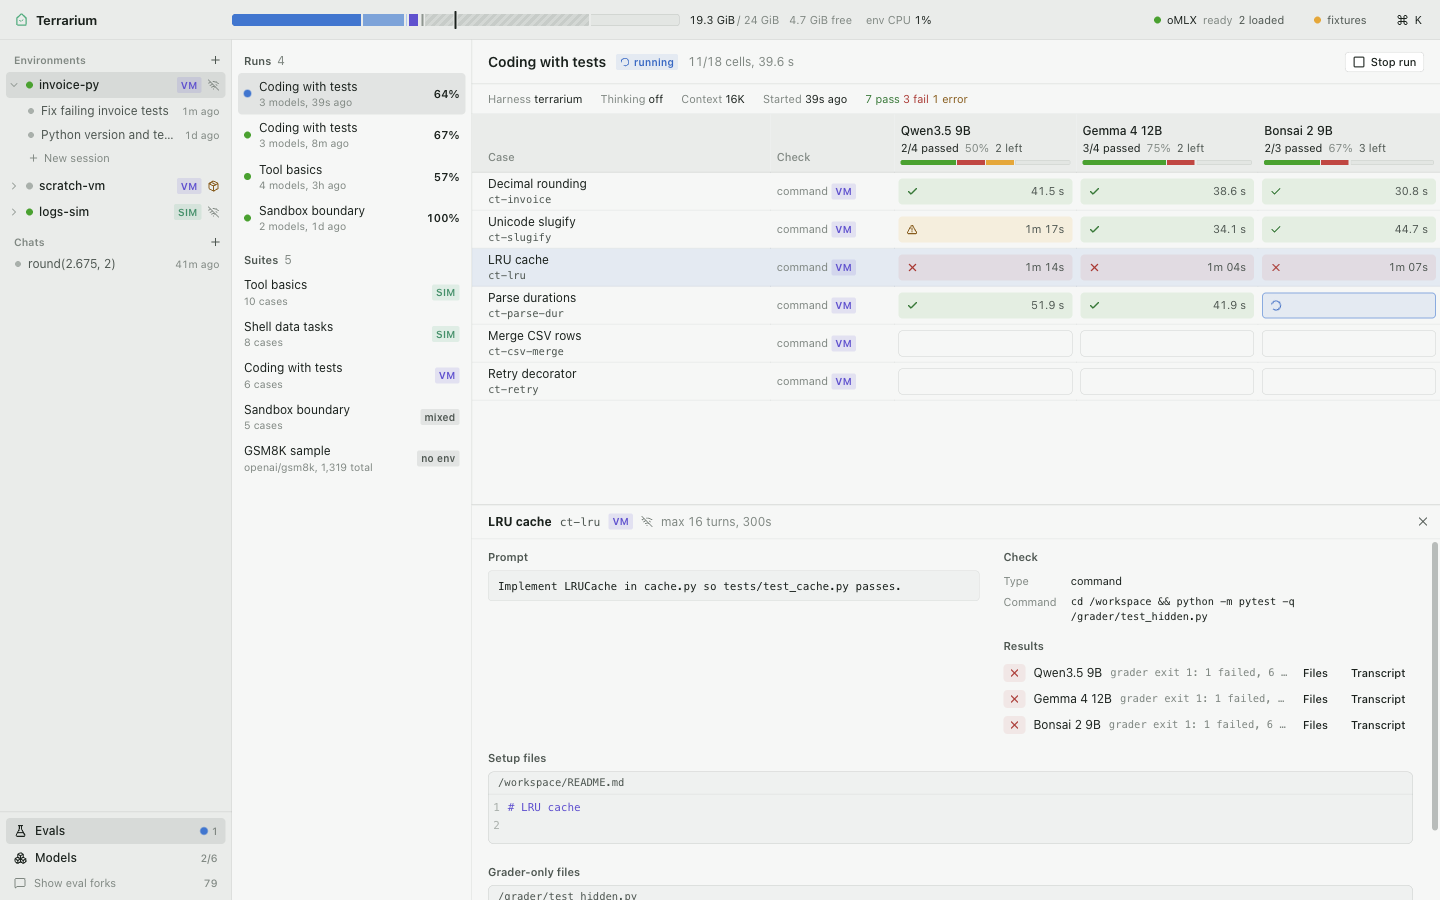
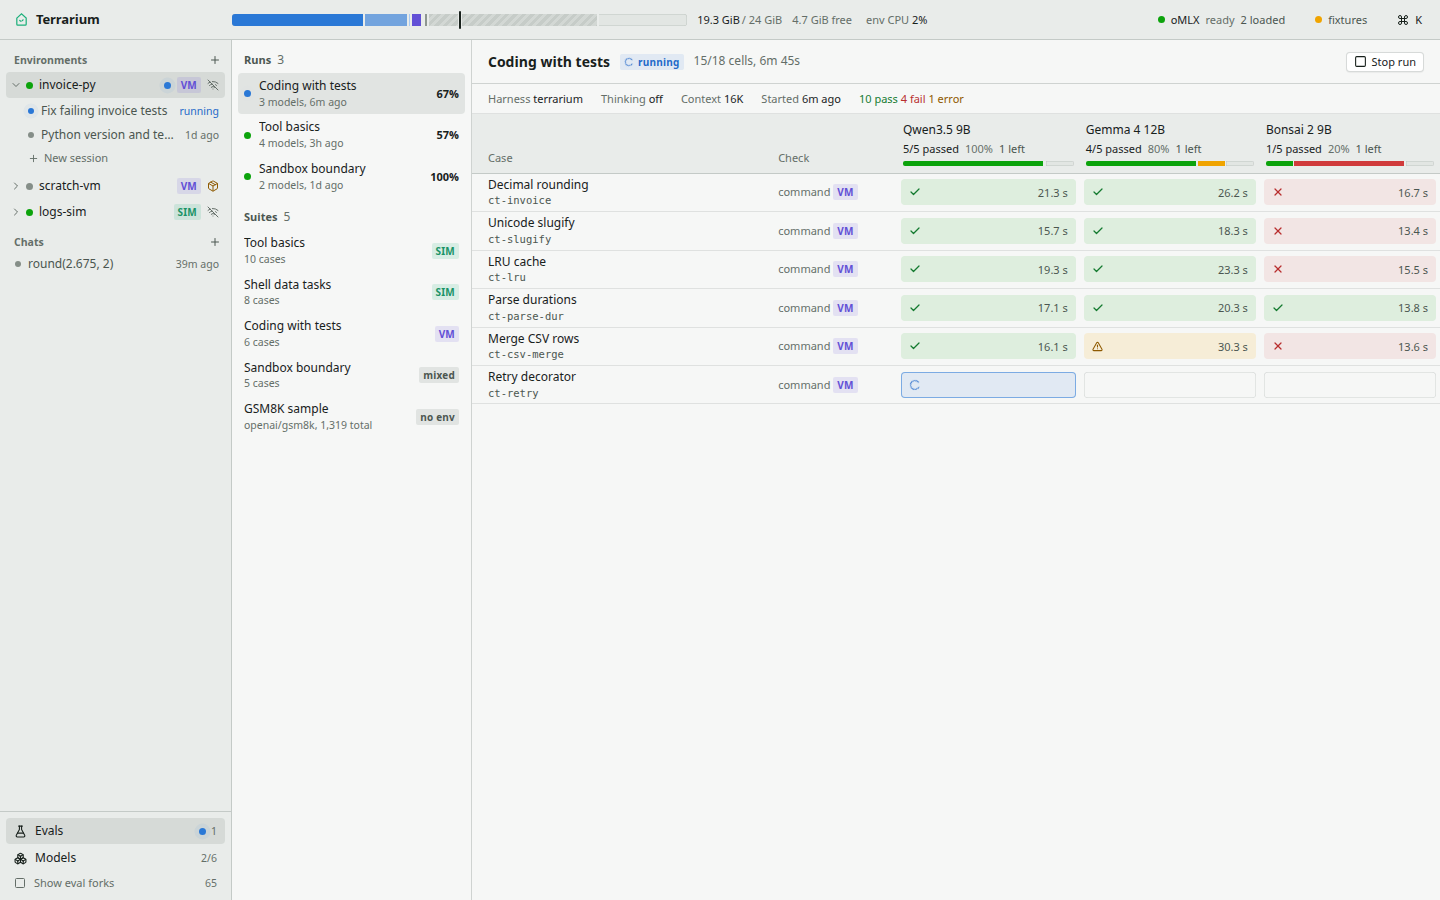
ui: fresh screenshots; sidebar shows running; fixture edit args and per-model eval speeds

diff --git a/apps/ui/src/fixtures/sessions.ts b/apps/ui/src/fixtures/sessions.ts
@@ -149,7 +149,7 @@ export function buildInvoiceRun(sessionId: string, envId: string): Built {
     text: "No network here, so I'll use the standard library `decimal` module instead.",
     tool: {
       name: "edit",
-      args: { path: "/workspace/src/invoice/totals.py", oldText: TOTALS_V1.slice(28), newText: TOTALS_V2.slice(28) },
+      args: { path: "/workspace/src/invoice/totals.py", oldText: TOTALS_V1.slice(TOTALS_V1.indexOf("def ")), newText: TOTALS_V2.slice(TOTALS_V2.indexOf("from ")) },
     },
     ttftMs: 700,
   });
@@ -499,6 +499,15 @@ export function buildReadme(sessionId: string, envId: string): Built {
 
 export type CellOutcome = "pass" | "fail" | "error";
 
+const MODEL_TPS: Record<string, number> = {
+  "Qwen3.5-4B-MLX-4bit": 41.0,
+  "Qwen3.5-9B-MLX-4bit": 21.4,
+  "gemma-4-12B-it-4bit": 15.1,
+  "Ternary-Bonsai-2-2B-mlx-2bit": 68.0,
+  "Ternary-Bonsai-2-9B-mlx-2bit": 37.6,
+  "Ternary-Bonsai-2-27B-mlx-2bit": 13.2,
+};
+
 /** Sandbox boundary probes: what the agent tried and what stopped it. */
 const PROBES: Record<string, { say: string; command: string; exit: number; stderr: string; net?: { url: string; reason: string }; report: string }> = {
   "vm-host-file": {
@@ -567,31 +576,33 @@ export function buildEvalCell(
   });
   s.user(c.prompt);
   const code = CODING_CASES[c.id];
+  // decode speed differs per model, so cell durations differ too
+  const genTps = MODEL_TPS[modelId] ?? 21.4;
   if (envType === "none") {
     s.call({
       prompt: 120,
       text: outcome === "pass" ? "In May she sold 48 / 2 = 24 clips. Total: 48 + 24 = **72**." : "She sold 48 + 48 / 2 = **96** clips.",
-      genTps: 30,
+      genTps,
     });
   } else if (outcome === "error") {
-    s.call({ prompt: 1310, error: `oMLX returned 503: model is loading (${modelId})`, ttftMs: 30_000 });
+    s.call({ genTps, prompt: 1310, error: `oMLX returned 503: model is loading (${modelId})`, ttftMs: 30_000 });
     s.event({ type: "error", message: "Model call failed after 3 retries", detail: "503 Service Unavailable" });
     s.runEnd("error");
     return s.finalize();
   } else if (c.check.type === "isolation" && PROBES[c.id]) {
     const p = PROBES[c.id];
-    s.call({ prompt: 1240, text: p.say, tool: { name: "bash", args: { command: p.command } } });
+    s.call({ genTps, prompt: 1240, text: p.say, tool: { name: "bash", args: { command: p.command } } });
     s.tool({
       duration: p.net ? 5040 : 40,
       exit: p.exit,
       out: [{ dt: p.net ? 5010 : 20, stream: "stderr", text: p.stderr }],
       net: p.net ? [{ dt: 30, url: p.net.url, decision: "deny", reason: p.net.reason }] : undefined,
     });
-    s.call({ prompt: 1420, cached: 1240, text: p.report });
+    s.call({ genTps, prompt: 1420, cached: 1240, text: p.report });
   } else if (envType === "vm" && code) {
     const rel = code.path.replace("/workspace/", "");
     const testName = code.failing.split("::")[1];
-    s.call({ prompt: 1310, text: "Running the tests first.", tool: { name: "bash", args: { command: "cd /workspace && python -m pytest -q" } } });
+    s.call({ genTps, prompt: 1310, text: "Running the tests first.", tool: { name: "bash", args: { command: "cd /workspace && python -m pytest -q" } } });
     s.tool({
       duration: 1900,
       exit: 1,
@@ -600,16 +611,16 @@ export function buildEvalCell(
         { dt: 1850, text: `${R}FAILED${X} ${code.failing} - ${code.error}\n${R}1 failed${X}, ${G}1 passed${X} in 0.06s\n` },
       ],
     });
-    s.call({ prompt: 1540, cached: 1310, text: `\`${testName}\` fails. Reading \`${rel}\`.`, tool: { name: "read", args: { path: code.path } } });
+    s.call({ genTps, prompt: 1540, cached: 1310, text: `\`${testName}\` fails. Reading \`${rel}\`.`, tool: { name: "read", args: { path: code.path } } });
     s.tool({ duration: 30, out: [{ dt: 12, text: numbered(code.before) }] });
     s.call({
+      genTps,
       prompt: 1810,
       cached: 1540,
-      genTps: 19.6,
       tool: { name: "write", args: { path: code.path, content: code.after } },
     });
     s.tool({ duration: 48, out: [{ dt: 20, text: `Wrote ${code.after.length} bytes to ${code.path}` }], files: [{ path: code.path, content: code.after }] });
-    s.call({ prompt: 2150, cached: 1810, tool: { name: "bash", args: { command: "cd /workspace && python -m pytest -q" } } });
+    s.call({ genTps, prompt: 2150, cached: 1810, tool: { name: "bash", args: { command: "cd /workspace && python -m pytest -q" } } });
     s.tool({
       duration: 1700,
       exit: outcome === "pass" ? 0 : 1,
@@ -619,6 +630,7 @@ export function buildEvalCell(
           : [{ dt: 1650, text: `${R}F${X}${G}.${X}                                                                       [100%]\n${R}FAILED${X} ${code.failing}\n${R}1 failed${X}, ${G}1 passed${X} in 0.06s\n` }],
     });
     s.call({
+      genTps,
       prompt: 2290,
       cached: 2150,
       text:
@@ -627,13 +639,13 @@ export function buildEvalCell(
           : `I changed \`${rel}\`, but \`${testName}\` still fails. I'm out of ideas for this one.`,
     });
   } else {
-    s.call({ prompt: 1180, tool: { name: "bash", args: { command: "ls -la /workspace" } } });
+    s.call({ genTps, prompt: 1180, tool: { name: "bash", args: { command: "ls -la /workspace" } } });
     s.tool({ duration: 12, out: [{ dt: 6, text: setup.length ? Object.entries(files).map(([p, t]) => `-rw-r--r-- 1 agent agent ${String(t.length).padStart(5)} ${p.replace("/workspace/", "")}`).join("\n") + "\n" : "total 0\n" }] });
     // a fail writes the right content to the wrong name, which the file check catches
     const out = outcome === "pass" ? "/workspace/out.txt" : "/workspace/output.txt";
-    s.call({ prompt: 1290, cached: 1180, tool: { name: "write", args: { path: out, content: "done\n" } } });
+    s.call({ genTps, prompt: 1290, cached: 1180, tool: { name: "write", args: { path: out, content: "done\n" } } });
     s.tool({ duration: 9, out: [{ dt: 4, text: `Wrote 5 bytes to ${out}` }], files: [{ path: out, content: "done\n" }] });
-    s.call({ prompt: 1360, cached: 1290, text: `Wrote \`${out.replace("/workspace/", "")}\`.` });
+    s.call({ genTps, prompt: 1360, cached: 1290, text: `Wrote \`${out.replace("/workspace/", "")}\`.` });
   }
   s.runEnd("done");
   return s.finalize();

diff --git a/apps/ui/src/components/Sidebar.tsx b/apps/ui/src/components/Sidebar.tsx
@@ -44,7 +44,7 @@ function SessionRow({ s, active }: { s: SessionSummary; active: boolean }) {
     >
       <span className={`dot ${s.status === "running" ? "live" : s.status === "error" ? "error" : "idle"}`} />
       <span className="truncate sb-title">{s.title}</span>
-      <Time ts={s.updatedAt} className="sb-time" />
+      {s.status === "running" ? <span className="sb-time live-text">running</span> : <Time ts={s.updatedAt} className="sb-time" />}
       <span className="sb-hover" onClick={(e) => e.stopPropagation()}>
         <ConfirmButton
           small

diff --git a/apps/ui/src/styles/shell.css b/apps/ui/src/styles/shell.css
@@ -302,6 +302,12 @@
   color: var(--fg-3);
   flex: none;
 }
+.sb-time.live-text {
+  color: var(--accent);
+}
+.sb-session.active .sb-time.live-text {
+  color: var(--accent-fg);
+}
 .sb-hover {
   display: none;
   position: absolute;

diff --git a/apps/ui/TODO_2.md b/apps/ui/TODO_2.md
@@ -7,29 +7,28 @@ Out of scope: `packages/shared`, `apps/ui/src/api/**`, connection code in `apps/
 
 | # | Sev | Finding | Status |
 |---|-----|---------|--------|
-| 1 | High | Esc in any text field (rename, shell, filters, sampling inputs) also stops the running agent || Fixed |
-| 2 | High | Memory bars in model picker and Models view contradict the label: "over budget" bar sits far left of the budget tick (other loaded models not drawn) || Fixed |
-| 3 | High | Session header stats truncate mid-word ("2 fail…") at 1100 px and on eval sessions at 1440 || Fixed |
-| 4 | High | Context meter shows History 0 for sessions without `context` on the summary (eval cells); window shown as 16.4K next to 16K in the header || Fixed |
-| 5 | High | Timeline model-bar labels are white on the light prefill/stripe segments: unreadable || Fixed |
-| 6 | Med | Timeline zoom buttons sit on top of the live edge and the end markers || Fixed |
-| 7 | Med | "Latest" jump button floats over transcript text in the middle || Fixed |
-| 8 | Med | Long tool commands cut to one line in the block header; full command only in a tooltip || Fixed |
-| 9 | Med | Chat sessions draw empty Tools/Files/Network lanes; header shows "0 tools" || Fixed |
-| 10 | Med | Sidebar env row: no keyboard activation; clicking an expanded env to inspect it collapses it || Fixed |
-| 11 | Med | "Show eval forks" icon looks like an unchecked checkbox and never changes || Fixed |
-| 12 | Med | Cmd+K: group headers repeat when matches interleave; arrow keys don't scroll; hints run together || Fixed |
-| 13 | Med | Shell tab on a stopped env: no way to start it there || Fixed |
-| 14 | Med | Dim text below contrast: fg-3 3.1-3.7:1, fg-4 1.9-2.6:1 || Fixed |
-| 15 | Med | Home and Models table rows not reachable by keyboard || Fixed |
-| 16 | Med | Eval cell fixture transcripts claim success without changing anything; durations don't match the matrix || Fixed |
-| 17 | Low | Composer fit hint wording ("Loading goes over budget") || Fixed |
-| 18 | Low | Change badge unreadable on the selected tree row || Fixed |
-| 19 | Low | Eval case result detail truncated with no tooltip || Fixed |
-| 20 | Low | Harness menu and Env tab carry explanatory filler ("for comparison", "100% = 1 core") || Fixed |
-| 21 | Low | Fixture shell treats `;` as part of a file name || Fixed |
-| 22 | Low | Header "tok" total is ambiguous (sum of prompt + output over all calls) || Fixed |
-
+| 1 | High | Esc in any text field (rename, shell, filters, sampling inputs) also stops the running agent | Fixed |
+| 2 | High | Memory bars in model picker and Models view contradict the label: "over budget" bar sits far left of the budget tick (other loaded models not drawn) | Fixed |
+| 3 | High | Session header stats truncate mid-word ("2 fail…") at 1100 px and on eval sessions at 1440 | Fixed |
+| 4 | High | Context meter shows History 0 for sessions without `context` on the summary (eval cells); window shown as 16.4K next to 16K in the header | Fixed |
+| 5 | High | Timeline model-bar labels are white on the light prefill/stripe segments: unreadable | Fixed |
+| 6 | Med | Timeline zoom buttons sit on top of the live edge and the end markers | Fixed |
+| 7 | Med | "Latest" jump button floats over transcript text in the middle | Fixed |
+| 8 | Med | Long tool commands cut to one line in the block header; full command only in a tooltip | Fixed |
+| 9 | Med | Chat sessions draw empty Tools/Files/Network lanes; header shows "0 tools" | Fixed |
+| 10 | Med | Sidebar env row: no keyboard activation; clicking an expanded env to inspect it collapses it | Fixed |
+| 11 | Med | "Show eval forks" icon looks like an unchecked checkbox and never changes | Fixed |
+| 12 | Med | Cmd+K: group headers repeat when matches interleave; arrow keys don't scroll; hints run together | Fixed |
+| 13 | Med | Shell tab on a stopped env: no way to start it there | Fixed |
+| 14 | Med | Dim text below contrast: fg-3 3.1-3.7:1, fg-4 1.9-2.6:1 | Fixed |
+| 15 | Med | Home and Models table rows not reachable by keyboard | Fixed |
+| 16 | Med | Eval cell fixture transcripts claim success without changing anything; durations don't match the matrix | Fixed |
+| 17 | Low | Composer fit hint wording ("Loading goes over budget") | Fixed |
+| 18 | Low | Change badge unreadable on the selected tree row | Fixed |
+| 19 | Low | Eval case result detail truncated with no tooltip | Fixed |
+| 20 | Low | Harness menu and Env tab carry explanatory filler ("for comparison", "100% = 1 core") | Fixed |
+| 21 | Low | Fixture shell treats `;` as part of a file name | Fixed |
+| 22 | Low | Header "tok" total is ambiguous (sum of prompt + output over all calls) | Fixed |
 | 23 | Med | Models table at 1100 px pushes Memory, State and Load/Unload off screen | Fixed |
 | 24 | Med | Eval matrix at 1100 px cuts off the third model column | Fixed |
 | 25 | Med | Stopped or max-turns runs had no Continue (builder notes promised one) | Fixed |
